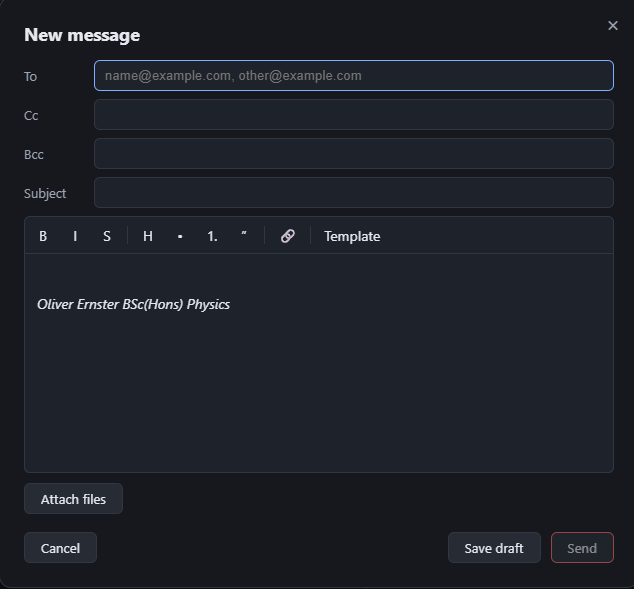
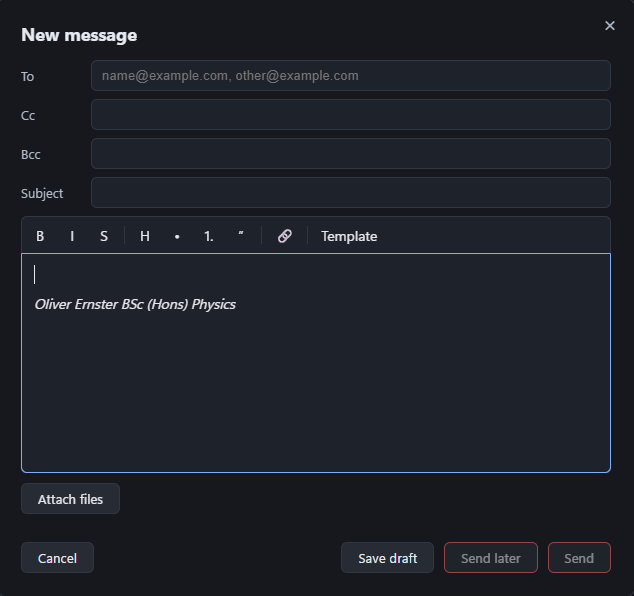
Recapture the compose screenshot with the Send later control

diff --git a/docs/features.html b/docs/features.html
@@ -194,7 +194,7 @@
             <div>
                 <div class="shot-frame">
                     <img src="screenshots/compose.png" loading="lazy" decoding="async"
-                         alt="The New message window: To, Cc, Bcc and Subject fields, a rich-text toolbar with a Template button, a signature in the body, plus Attach files, Save draft and Send buttons."/>
+                         alt="The New message window: To, Cc, Bcc and Subject fields, a rich-text toolbar with a Template button, a signature in the body, plus Attach files, Save draft, Send later and Send buttons."/>
                 </div>
                 <p class="shot-cap">Writing a message: rich text with a signature, reusable templates and
                     file attachments.</p>
